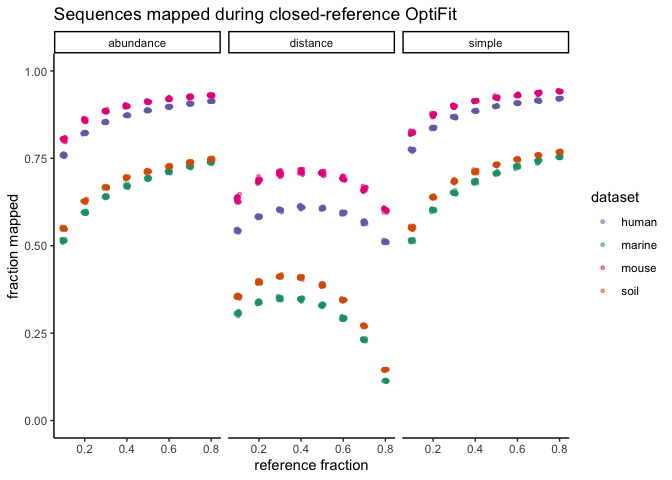
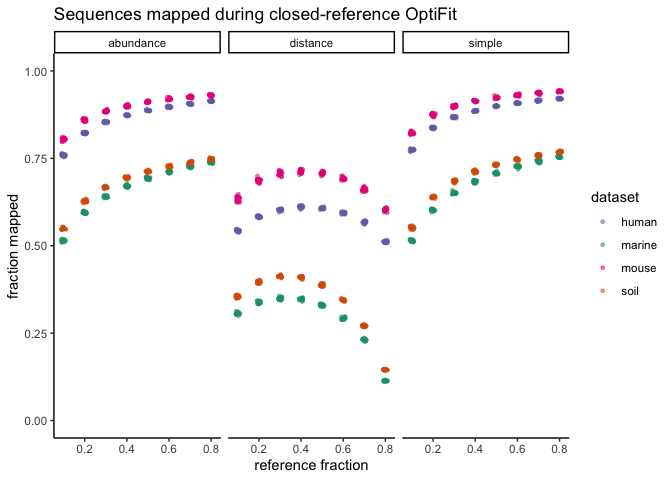
Plot de novo results alongside optifit

diff --git a/exploratory/2020/sub3_fit_subsets_fixed.md b/exploratory/2020/sub3_fit_subsets_fixed.md
@@ -16,19 +16,51 @@ dataset_colors <- c(
   mouse = color_palette[[4]],
   soil = color_palette[[2]]
 )
+full_join_files <- function(filenames) {
+  filenames %>% 
+  lapply(read_tsv) %>% 
+  reduce(full_join)
+}
 ```
 
 ``` r
-sensspec_fit <-
-  read_tsv(here('subworkflows/3_fit_sample_subset/results/sensspec.tsv'))
+dat <- c('https://raw.githubusercontent.com/SchlossLab/OptiFitAnalysis/4fa7127bb6bacaa63657f0c18c0a8c6b6d18ebe7/subworkflows/3_fit_sample_subset/results/sensspec.tsv?token=AEHR6TOTYRF3XTCACDHGFRK7QRYH2',
+              'https://raw.githubusercontent.com/SchlossLab/OptiFitAnalysis/4fa7127bb6bacaa63657f0c18c0a8c6b6d18ebe7/subworkflows/3_fit_sample_subset/results/benchmarks.tsv?token=AEHR6TLJWOKI4YC6OJ6BRMC7QRYXY',
+              'https://raw.githubusercontent.com/SchlossLab/OptiFitAnalysis/4fa7127bb6bacaa63657f0c18c0a8c6b6d18ebe7/subworkflows/3_fit_sample_subset/results/input_sizes.tsv?token=AEHR6TJVM5FBTZRRY4USOYS7QRY6U',
+              'https://raw.githubusercontent.com/SchlossLab/OptiFitAnalysis/4fa7127bb6bacaa63657f0c18c0a8c6b6d18ebe7/subworkflows/3_fit_sample_subset/results/gap_counts.tsv?token=AEHR6TMQKLHG2RNGUZQI35C7QRY5G',
+              'https://raw.githubusercontent.com/SchlossLab/OptiFitAnalysis/4fa7127bb6bacaa63657f0c18c0a8c6b6d18ebe7/subworkflows/3_fit_sample_subset/results/fraction_reads_mapped.tsv?token=AEHR6TIY56KPVNGRKCOAYI27QRZBW') %>% 
+  full_join_files() %>% 
+  mutate(num_total_seqs = num_ref_seqs + num_sample_seqs,
+         gaps_frac = n_gaps / total_chars)
+
+denovo <- c('https://raw.githubusercontent.com/SchlossLab/OptiFitAnalysis/4fa7127bb6bacaa63657f0c18c0a8c6b6d18ebe7/subworkflows/1_prep_samples/results/sensspec.tsv?token=AEHR6TOXMAB75QDAO7CGTA27QR4KQ',
+            'https://raw.githubusercontent.com/SchlossLab/OptiFitAnalysis/4fa7127bb6bacaa63657f0c18c0a8c6b6d18ebe7/subworkflows/1_prep_samples/results/benchmarks.tsv?token=AEHR6TI35D2TNWARGGL37W27QR4MM',
+            'https://raw.githubusercontent.com/SchlossLab/OptiFitAnalysis/4fa7127bb6bacaa63657f0c18c0a8c6b6d18ebe7/subworkflows/1_prep_samples/results/dataset_sizes.tsv?token=AEHR6TJKE2C7SRDUZSGRTCC7QR4MG') %>% 
+  full_join_files() %>% 
+  mutate(ref_frac = 1)
+
+denovo_sum <- denovo %>% group_by(dataset) %>% summarize(mean_mcc=mean(mcc), 
+                                                         sd_mcc=sd(mcc),
+                                                         mean_sec=mean(s),
+                                                         sd_sec=sd(s),
+                                                         num_ref_seqs = mean(num_seqs))
+denovo_sum
 ```
+
+    ## # A tibble: 4 x 6
+    ##   dataset mean_mcc    sd_mcc mean_sec sd_sec num_ref_seqs
+    ##   <chr>      <dbl>     <dbl>    <dbl>  <dbl>        <dbl>
+    ## 1 human      0.821 0.00123       774.   84.4       261539
+    ## 2 marine     0.815 0.0000999     166.   16.6       161561
+    ## 3 mouse      0.831 0.00103       110.   13.2        68111
+    ## 4 soil       0.729 0.00267       180.   23.4       219754
 
 ## Subsetting datasets with different reference sizes
 
 Sample fraction of 0.2 with 20 different seeds.
 
 ``` r
-sensspec_fit %>%
+dat %>%
   ggplot(aes(x = ref_frac, y = mcc, color = dataset)) +
   geom_jitter(size = 1, alpha = 0.3, width = 0.01) +
   stat_summary(fun = mean, geom = 'crossbar') +
@@ -40,6 +72,37 @@ sensspec_fit %>%
 
 ![](figures/fit_ref_frac-1.png)<!-- -->
 
+``` r
+dat %>%
+  ggplot(aes(x = ref_frac, y = mcc, color = dataset)) +
+  geom_jitter(size = 1, alpha = 0.3, width = 0.01) +
+  stat_summary(fun = mean, geom = 'crossbar') +
+  geom_hline(aes(yintercept = mean_mcc, color = dataset), denovo_sum) +
+  scale_color_manual(values = dataset_colors) +
+  facet_grid(method ~ ref_weight) +
+  labs(title='OptiFit Performance',
+       x='reference fraction',
+       caption='Sample fraction = 0.2 for OptiFit runs. The horizontal line represents _de novo_ clustering for the whole dataset.') +
+  theme(plot.caption = element_markdown())
+```
+
+![](figures/fit_ref_frac-2.png)<!-- -->
+
+``` r
+dat %>%
+  ggplot(aes(x = ref_frac, y = mcc, color = ref_weight)) +
+  geom_jitter(size = 1, alpha = 0.3, width = 0.01) +
+  stat_summary(fun = mean, geom = 'crossbar') +
+  geom_hline(aes(yintercept = mean_mcc), denovo_sum) +
+  facet_grid(dataset ~ method) +
+  labs(title='OptiFit Performance',
+       x='reference fraction',
+       caption='Sample fraction = 0.2 for OptiFit runs. The horizontal line represents _de novo_ clustering for the whole dataset.') +
+  theme(plot.caption = element_markdown())
+```
+
+![](figures/fit_ref_frac-3.png)<!-- -->
+
 The performance is very consistent across reference fractions when
 weighting sequences by abundance or not at all (simple). When weighting
 by distance, the performance decreases as the reference fraction
@@ -50,15 +113,7 @@ included in the reference.
 ## Runtime
 
 ``` r
-runtime <- full_join(
-  read_tsv(here('subworkflows/3_fit_sample_subset/results/benchmarks.tsv')),
-  read_tsv(here('subworkflows/3_fit_sample_subset/results/input_sizes.tsv'))
-  ) %>% 
-  full_join(read_tsv(here('subworkflows/3_fit_sample_subset/results/gap_counts.tsv'))) %>% 
-  mutate(num_total_seqs = num_ref_seqs + num_sample_seqs,
-         gaps_frac = n_gaps / total_chars)
-
-runtime %>% ggplot(aes(x=num_ref_seqs, y=s, color=dataset)) +
+dat %>% ggplot(aes(x=num_ref_seqs, y=s, color=dataset)) +
   geom_point(alpha = 0.3) +
   facet_grid(method ~ ref_weight) +
   scale_color_manual(values = dataset_colors) +
@@ -71,6 +126,25 @@ runtime %>% ggplot(aes(x=num_ref_seqs, y=s, color=dataset)) +
 
 ![](figures/runtime_ref_seqs-1.png)<!-- -->
 
+``` r
+dat %>% group_by(num_ref_seqs, dataset, ref_weight, method) %>% 
+  summarize(mean_sec=mean(s)) %>% 
+  ggplot(aes(x=num_ref_seqs, y=mean_sec, color=ref_weight)) +
+  geom_point(alpha = 0.5) +
+  geom_point(aes(x=num_ref_seqs, y=mean_sec, color=NULL), denovo_sum) +
+  facet_grid(dataset ~ method, scales = 'free') +
+  #scale_color_manual(values = dataset_colors) +
+  scale_x_continuous(breaks = seq(0, 200000, 50000),
+                     labels = c('0', '50k', '100k', '150k', '200k')) +
+  labs(title = 'Runtime over reference size',
+       x = '# sequences in reference',
+       y = 'seconds',
+       caption = 'Sample fraction = 0.2 for OptiFit runs. The black dot represents _de novo_ clustering for the whole dataset') +
+  theme(plot.caption = element_markdown())
+```
+
+![](figures/runtime_ref_seqs-2.png)<!-- -->
+
 Runtime is also fairly consistent regardless of weighting method. For
 abundance and simple weighting, runtime seems to continue increasing
 roughly linearly (maybe a little worse than linear). When weighting by
@@ -82,7 +156,7 @@ increase as much. I’m not sure why the human dataset takes so much
 longer than the others.
 
 ``` r
-runtime %>% full_join(sensspec_fit) %>% 
+dat %>%
   ggplot(aes(x=numotus, y=s, color=dataset, shape = ref_weight)) +
   geom_point(alpha = 0.5) +
   facet_grid(method ~ ref_weight) +
@@ -105,8 +179,8 @@ the ratio of OTUs to reference sequences?
 ## Fraction of sequences that map to the reference
 
 ``` r
-fractions <- read_tsv(here('subworkflows/3_fit_sample_subset/results/fraction_reads_mapped.tsv'))
-fractions %>% 
+dat %>% 
+  filter(method == 'closed') %>% 
   group_by(dataset, ref_weight, ref_frac) %>% 
   ggplot(aes(x=ref_frac, y=fraction_mapped, color=dataset)) +
   geom_jitter(alpha = 0.5, width = 0.01, size=1) +
@@ -119,6 +193,22 @@ fractions %>%
 ```
 
 ![](figures/fraction_reads_mapped-1.png)<!-- -->
+
+``` r
+dat %>% 
+  filter(method == 'closed') %>% 
+  group_by(dataset, ref_weight, ref_frac) %>% 
+  ggplot(aes(x=ref_frac, y=fraction_mapped, color=ref_weight)) +
+  geom_jitter(alpha = 0.5, width = 0.01, size=1) +
+  #scale_color_manual(values = dataset_colors) +
+  facet_wrap("dataset", nrow=1) +
+  ylim(0, 1) +
+  labs(title="Sequences mapped during closed-reference OptiFit",
+       x='reference fraction',
+       y='fraction mapped')
+```
+
+![](figures/fraction_reads_mapped-2.png)<!-- -->
 
 The fraction of sequences that are able to be fit to the reference in
 closed-reference clustering increases as the reference size increases
